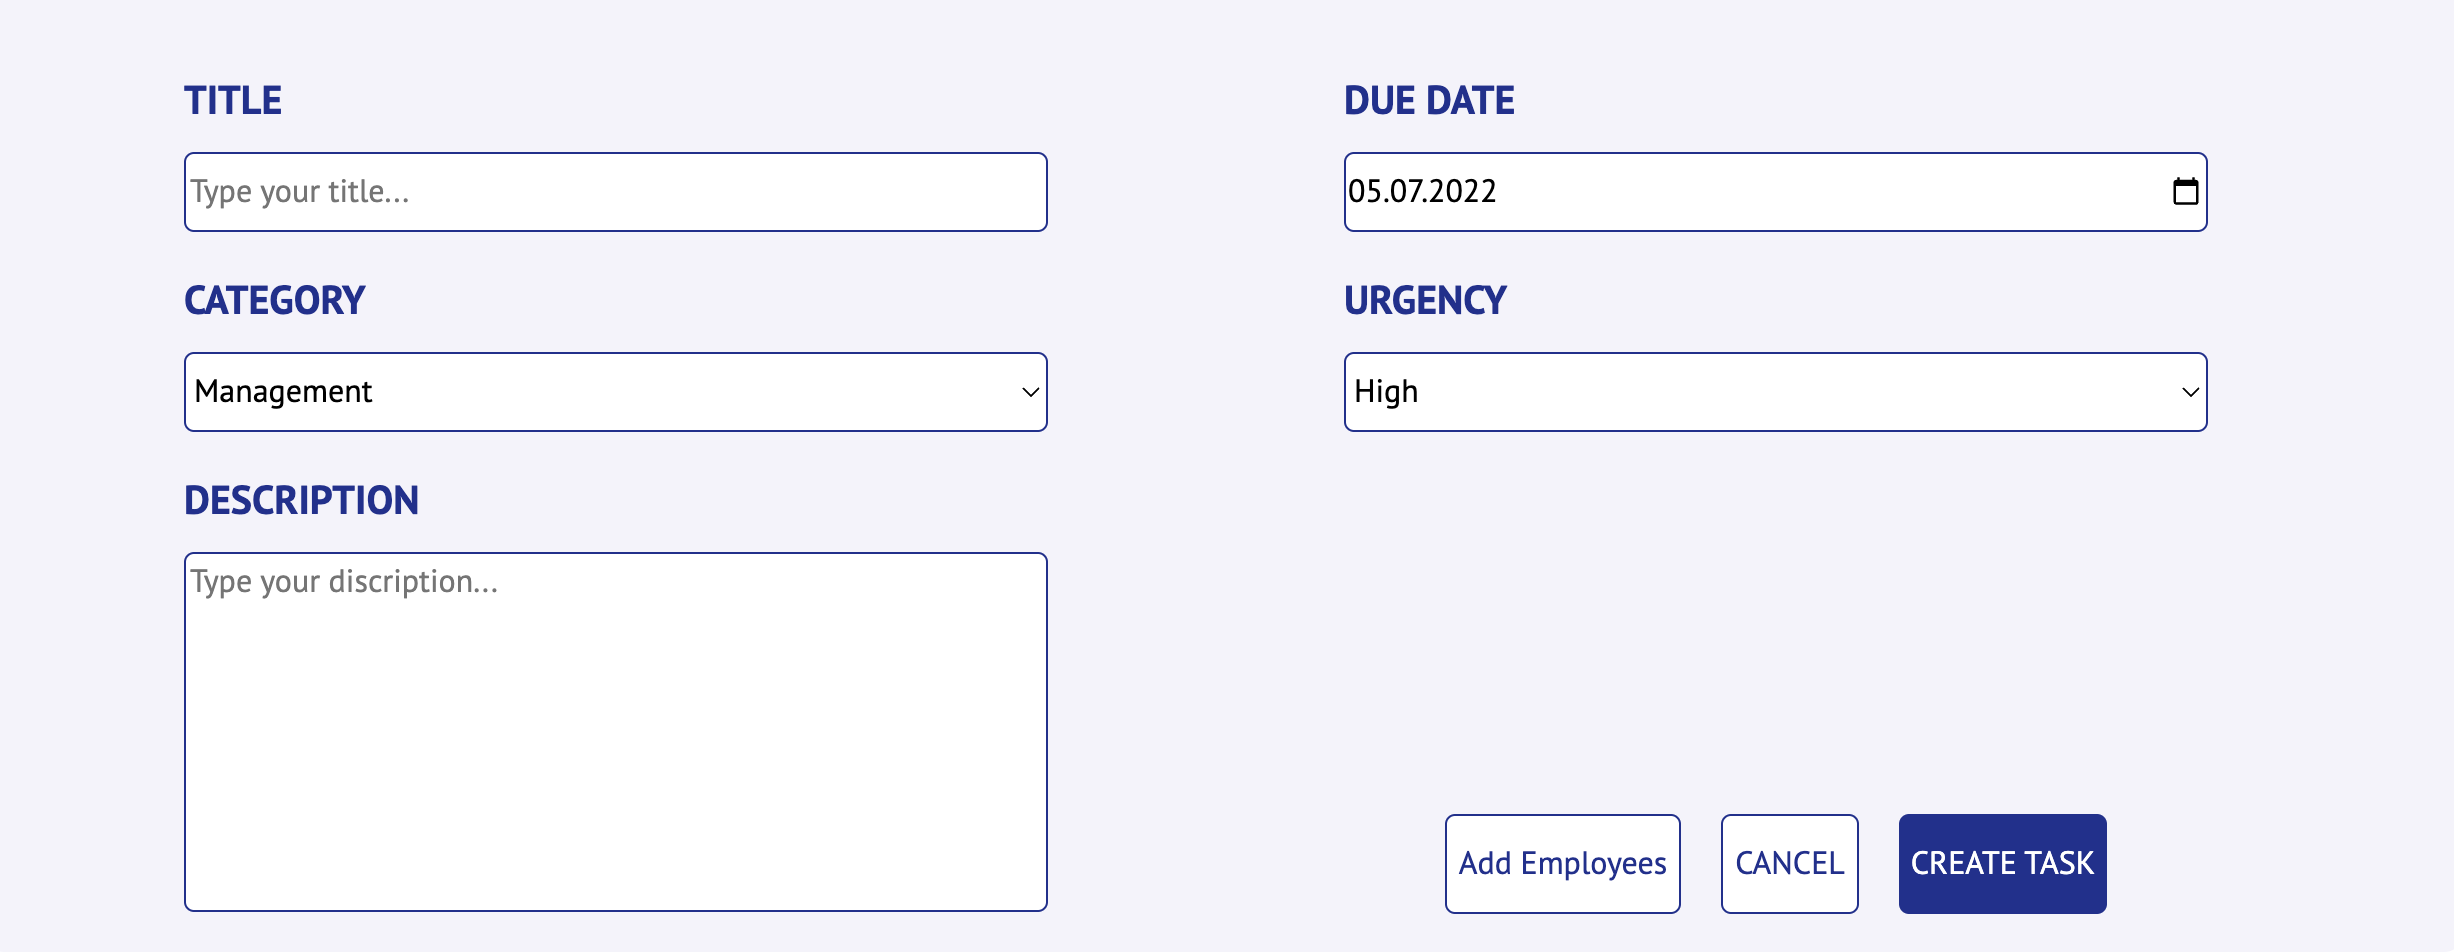
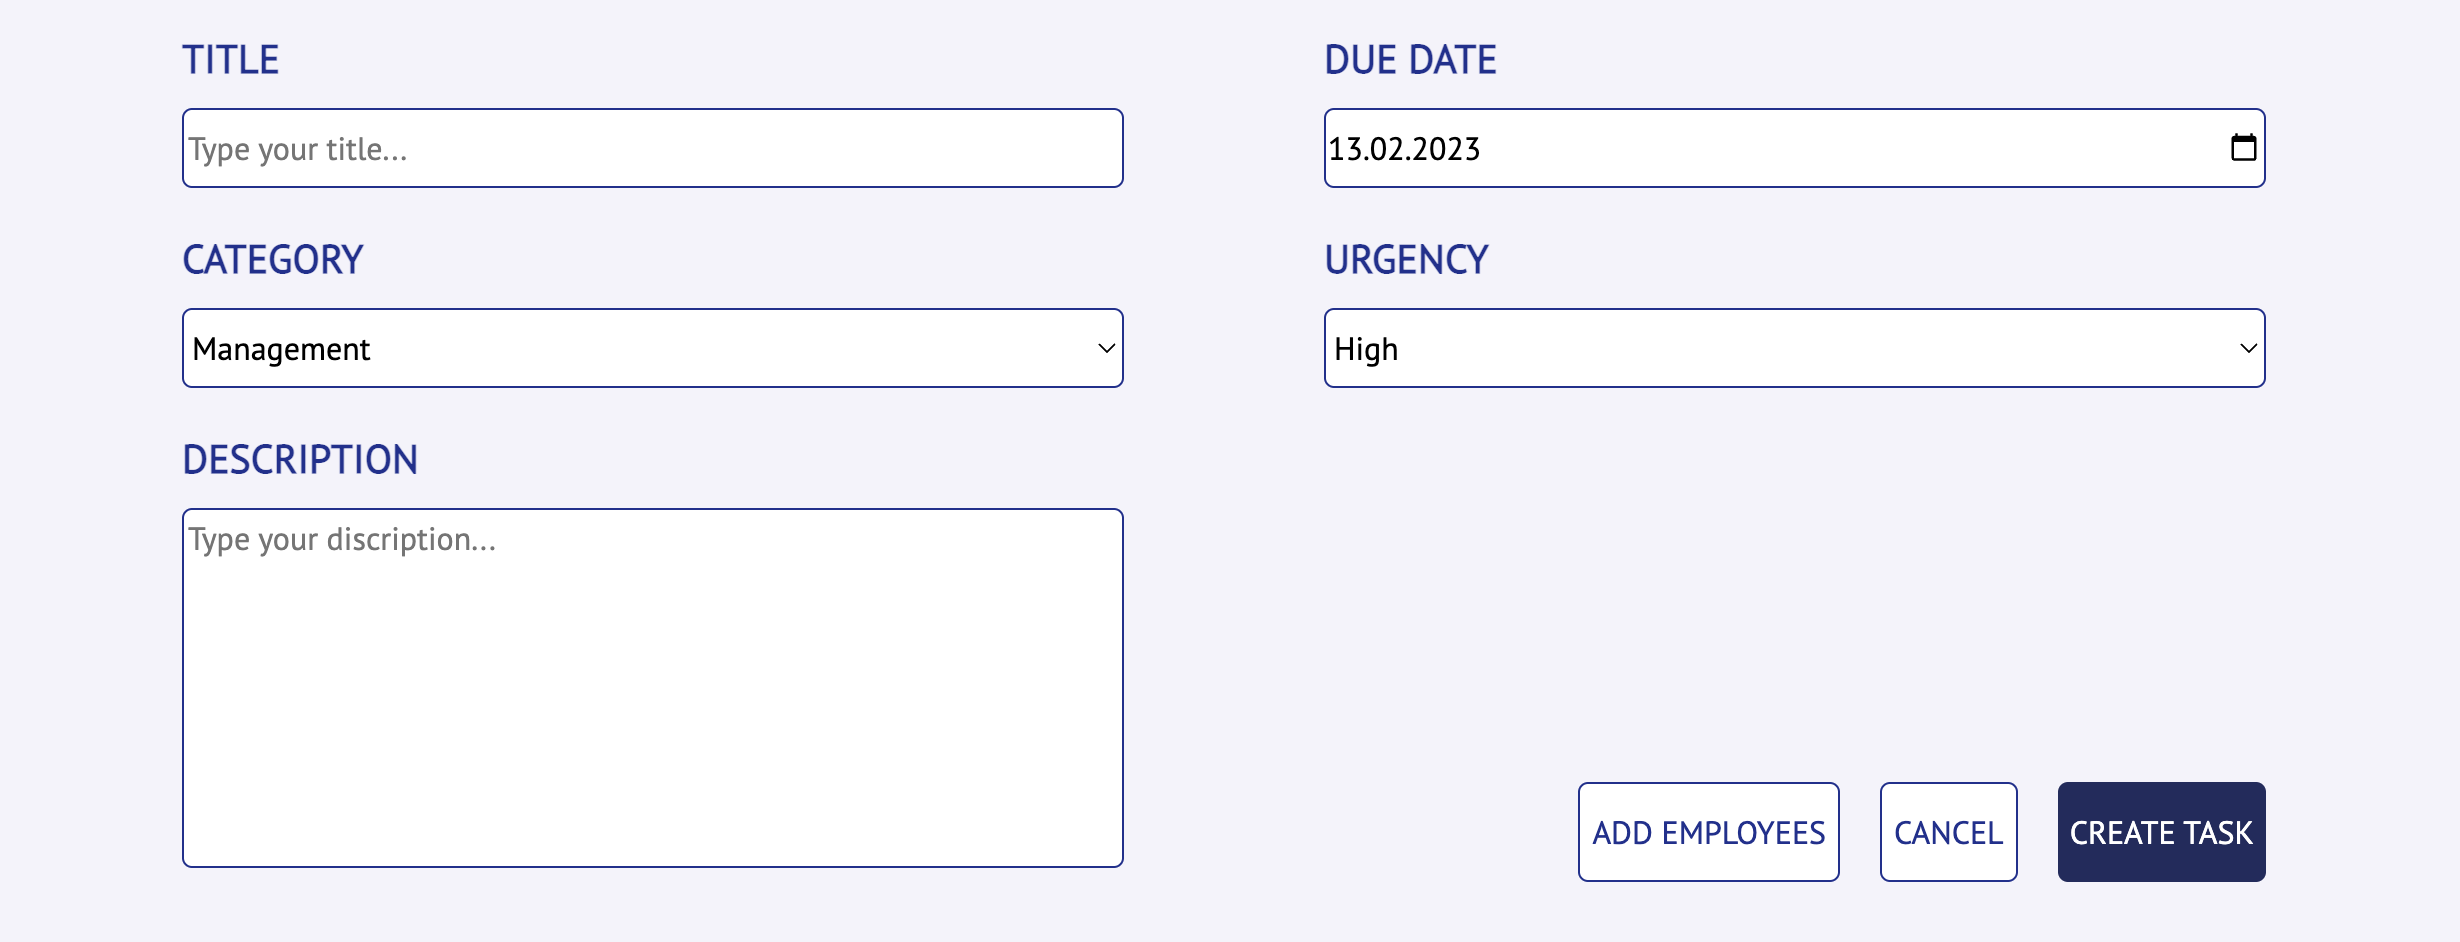
last design changes

diff --git a/styles/style.css b/styles/style.css
@@ -1,5 +1,5 @@
 body {
-    font-family: PT Sans,sans-serif !important;
+    font-family: PT Sans, sans-serif !important;
 }
 
 .fade-out {
@@ -8,7 +8,7 @@ body {
 }
 
 .urgent {
-border-left: 5px solid #FFABAB !important;
+    border-left: 5px solid #FFABAB !important;
 }
 
 .medium {
@@ -34,7 +34,8 @@ border-left: 5px solid #FFABAB !important;
     width: 150px;
     height: 100vh;
     position: fixed !important;
-    background-color: #1E3190;
+    /* background-color: #1E3190; */
+    background-color: #171e41;
     left: 0;
     transition: left 0.5s ease-in-out;
 }
@@ -86,7 +87,7 @@ border-left: 5px solid #FFABAB !important;
     top: 0;
     width: 100vw;
     height: 50px;
-    background-color: #1E3190;
+    background-color: #212b5e;
     display: flex;
     justify-content: flex-end;
     align-items: center;
@@ -126,7 +127,7 @@ border-left: 5px solid #FFABAB !important;
 }
 
 .join-phrase {
-    color: #1E3190;
+    color: #212b5e;
 }
 
 /* Open Card Deatials Style */
@@ -171,7 +172,7 @@ border-left: 5px solid #FFABAB !important;
 }
 
 .card-details-button-container span {
-    color: #1E3190;
+    color: #212b5e;
     margin-left: 8px;
 }
 
@@ -219,8 +220,8 @@ border-left: 5px solid #FFABAB !important;
     font-weight: bold;
 }
 
-.assignee-email {
-    color: #1E3190;
+.assignee-email > a {
+    color: #2a387b;
 }
 
 /* loading animation */
@@ -243,45 +244,61 @@ border-left: 5px solid #FFABAB !important;
     bottom: 0;
     left: 0;
     right: 0;
-  }
-  .lds-ring div {
+}
+
+.lds-ring div {
     box-sizing: border-box;
     display: block;
     position: absolute;
     width: 64px;
     height: 64px;
     margin: 8px;
-    border: 8px solid #1E3190;
+    border: 8px solid #212b5e;
     border-radius: 50%;
     animation: lds-ring 1.2s cubic-bezier(0.5, 0, 0.5, 1) infinite;
-    border-color: #1E3190 transparent transparent transparent;
-  }
-  .lds-ring div:nth-child(1) {
+    border-color: #212b5e transparent transparent transparent;
+}
+
+.lds-ring div:nth-child(1) {
     animation-delay: -0.45s;
-  }
-  .lds-ring div:nth-child(2) {
+}
+
+.lds-ring div:nth-child(2) {
     animation-delay: -0.3s;
-  }
-  .lds-ring div:nth-child(3) {
+}
+
+.lds-ring div:nth-child(3) {
     animation-delay: -0.15s;
-  }
-  @keyframes lds-ring {
+}
+
+#loading-ring,#tick {
+    margin-left: 150px;
+}
+
+@keyframes lds-ring {
     0% {
-      transform: rotate(0deg);
+        transform: rotate(0deg);
     }
+
     100% {
-      transform: rotate(360deg);
+        transform: rotate(360deg);
     }
-  }
-  
+}
+
 
 @media (min-width:1000px) {
     .mobile-nav {
         display: none;
     }
+
+
 }
 
 @media (max-width: 1000px) {
+    #loading-ring,#tick {
+        margin-left: 0 !important;
+    }
+
     .navbar {
         left: -150px;
     }
@@ -314,6 +331,11 @@ border-left: 5px solid #FFABAB !important;
 }
 
 @media (max-width:700px) {
+
+    #loading-container {
+        top: 250px;
+    }
+
     .card-details-content {
         flex-direction: column;
         min-width: unset;
@@ -332,7 +354,7 @@ border-left: 5px solid #FFABAB !important;
         flex-direction: column-reverse;
         margin-top: 24px;
     }
-    
+
     .card-details-button-container {
         align-items: flex-end;
         margin-top: 10px;
@@ -418,15 +440,15 @@ border-left: 5px solid #FFABAB !important;
     src: url('./fonts/pt-sans-v17-latin-regular.eot');
     /* IE9 Compat Modes */
     src: local(''),
-        url('./fonts/pt-sans-v17-latin-regular.eot?#iefix') format('embedded-opentype'),
+        url('/fonts/pt-sans-v17-latin-regular.eot?#iefix') format('embedded-opentype'),
         /* IE6-IE8 */
-        url('./fonts/pt-sans-v17-latin-regular.woff2') format('woff2'),
+        url('/fonts/pt-sans-v17-latin-regular.woff2') format('woff2'),
         /* Super Modern Browsers */
-        url('./fonts/pt-sans-v17-latin-regular.woff') format('woff'),
+        url('/fonts/pt-sans-v17-latin-regular.woff') format('woff'),
         /* Modern Browsers */
-        url('./fonts/pt-sans-v17-latin-regular.ttf') format('truetype'),
+        url('/fonts/pt-sans-v17-latin-regular.ttf') format('truetype'),
         /* Safari, Android, iOS */
-        url('./fonts/pt-sans-v17-latin-regular.svg#PTSans') format('svg');
+        url('/fonts/pt-sans-v17-latin-regular.svg#PTSans') format('svg');
     /* Legacy iOS */
 }
 
@@ -438,14 +460,14 @@ border-left: 5px solid #FFABAB !important;
     src: url('./fonts/pt-sans-v17-latin-italic.eot');
     /* IE9 Compat Modes */
     src: local(''),
-        url('./fonts/pt-sans-v17-latin-italic.eot?#iefix') format('embedded-opentype'),
+        url('/fonts/pt-sans-v17-latin-italic.eot?#iefix') format('embedded-opentype'),
         /* IE6-IE8 */
-        url('./fonts/pt-sans-v17-latin-italic.woff2') format('woff2'),
+        url('/fonts/pt-sans-v17-latin-italic.woff2') format('woff2'),
         /* Super Modern Browsers */
-        url('./fonts/pt-sans-v17-latin-italic.woff') format('woff'),
+        url('/fonts/pt-sans-v17-latin-italic.woff') format('woff'),
         /* Modern Browsers */
-        url('./fonts/pt-sans-v17-latin-italic.ttf') format('truetype'),
+        url('/fonts/pt-sans-v17-latin-italic.ttf') format('truetype'),
         /* Safari, Android, iOS */
-        url('./fonts/pt-sans-v17-latin-italic.svg#PTSans') format('svg');
+        url('/fonts/pt-sans-v17-latin-italic.svg#PTSans') format('svg');
     /* Legacy iOS */
 }

diff --git a/styles/welcome.css b/styles/welcome.css
@@ -35,7 +35,7 @@ input {
 }
 
 .welcome-card-left-container {
-    background-color: #1E3190;
+    background-color: #212b5e;
     border-radius: 10px 0 0 10px;
     width: 22%;
     display: flex;
@@ -84,7 +84,7 @@ input {
     height: 30px;
 }
 
-#wrong-login-data-container, #wrong-data-container {
+#wrong-login-data-container, #wrong-data-container, .testing {
     font-size: 10px !important;
     padding-left: 70px;
     font-style: italic;
@@ -104,7 +104,7 @@ input {
 
 .welcome-card-right-container button {
     border: 0;
-    background-color: #1E3190;
+    background-color: #212b5e;
     color: white;
     border-radius: 5px !important;
     height: 30px;
@@ -126,7 +126,11 @@ input {
 
 .method-toggle {
     background-color: #B01616 !important;
-    margin-right: 28px !important;
+    margin-right: 16px !important;
+}
+
+.guest {
+    margin-right: 16px !important;
 }
 
 @media (max-width:582px) {
@@ -175,5 +179,16 @@ input {
     #signup-card h2 {
         font-size: 15px;
         margin-left: 0px;
+    }
+
+    .width75 {
+        margin-right: 16px !important;
+    }
+    .guest {
+        margin-right: 8px !important;
+    }
+
+    .method-toggle {
+        margin-right: 8px !important;
     }
 }

diff --git a/styles/addTask.css b/styles/addTask.css
@@ -80,17 +80,17 @@ input {
 @keyframes flashIn {
     from {
         background-color: white;
-        color: #1E3190;
+        color: #212b5e;
     }
 
     to {
-        background-color: #1E3190;
+        background-color: #212b5e;
         color: white;
     }
 }
 
 .button-add:hover {
-    background-color: #1E3190;
+    background-color: #212b5e;
     color: white;
 }
 
@@ -112,13 +112,13 @@ input {
 }
 
 .button-cancel:hover {
-    background-color: #1E3190;
+    background-color: #212b5e;
     color: white;
 }
 
 .button-create-task {
     border: 0;
-    background-color: #1E3190;
+    background-color: #212b5e;
     color: white;
     border-radius: 5px;
     height: 50px;
@@ -126,7 +126,7 @@ input {
 }
 
 .button-create-task:hover {
-    background-color: blue;
+    background-color: rgb(3, 3, 164);
 }
 
 .buttons {

diff --git a/addTask.html b/addTask.html
@@ -74,7 +74,7 @@
         </div>
         <div id="card-details-container" class="secondary fade-out d-none" onclick="closeCardDetails()"></div>
         <div class="d-none" id="loading-container">
-          <div class="lds-ring " id="loading-ring"><div></div><div></div><div></div><div></div></div>
+          <div class="lds-ring" id="loading-ring"><div></div><div></div><div></div><div></div></div>
           <img src="img/checkmark-64.png" alt="" class="tick d-none" id="tick">
         </div>
     </div>

diff --git a/welcome.html b/welcome.html
@@ -37,6 +37,7 @@
             <span id="wrong-login-data-container" class="opacity-zero">insert wrong username or password</span>
             <div class="button-container">
                 <button type="button" onclick="toggleLogin()" class="method-toggle">Signup</button>
+                <button type="button" onclick="checkIfLoginDataValid(true, true)" class="guest">Guest</button>
                 <button type="button" onclick="login()" id="login">Login</button>
             </div>
         </div>

diff --git a/scripts/welcome.js b/scripts/welcome.js
@@ -140,7 +140,7 @@ function toggleLogin() {
     document.getElementById('login-card').classList.toggle('d-none');
     document.getElementById('signup-card').classList.toggle('d-none');
     clearInput();
-    clearUserData();
+    // clearUserData();
 }
 
 /**
